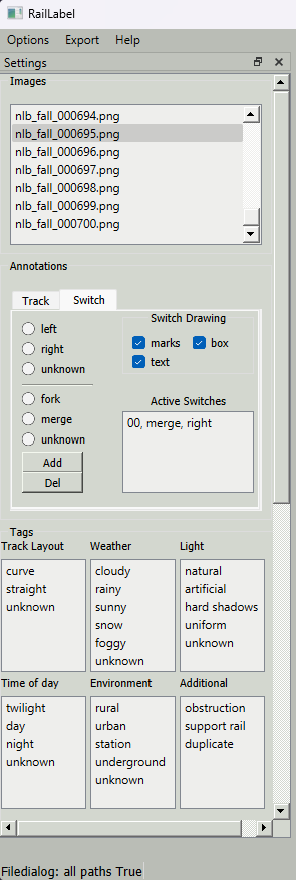
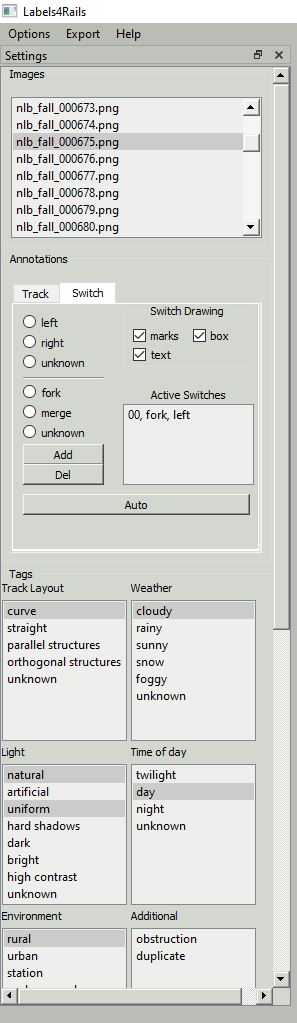
mention auto features in readme

diff --git a/README.md b/README.md
@@ -7,12 +7,10 @@
 # Installation
 
 ## Use case 1 - You want to use Labels4Rails with GUI to mark scenes:
-You are a student or a member of the team, and you want to help to
-extend our dataset by tagging images with the help of a GUI.
+You want to visualize the annotations, create new annotations or generate segmentations masks of track annotations and YOLO Scheme labels of the switches.
 
-1. Clone this GIT-repository
-   - `git clone git@gitlab.rz.htw-berlin.de:se_perception/raillabel.git`
-   - OR `git clone https://gitlab.rz.htw-berlin.de/se_perception/raillabel.git`
+1. Clone this GIT-repository:
+   - `git clone https://github.com/railway-perception-htw-berlin/Labels4Rails.git`
 2. If you are using windows you can find an executable in `raillabel_exe`. Otherwise you need to execute the following steps (which of course also work on windows).
 3. Python interpreter:  
     If you are experienced you can also install your packages via pip.
@@ -41,8 +39,7 @@ that you can generate your labels from the dataset.
     - Install Miniconda (sufficient and small) or Anaconda:
       [Instructions](https://docs.conda.io/projects/conda/en/latest/user-guide/install/)
 2. Clone this GIT-repository:
-   - `git clone git@gitlab.rz.htw-berlin.de:se_perception/raillabel.git`
-   - OR: `git@gitlab.rz.htw-berlin.de:se_perception/raillabel.git`
+   - `git clone https://github.com/railway-perception-htw-berlin/Labels4Rails.git`
 3. Create Conda environment and install raillabel package:
    - `conda create --name railpackage python=3.9`
    - `conda activate railpackage`
@@ -107,7 +104,7 @@ chunk-root
     └── scene_.....n.png
 ```
 - [mandatory] `chunk-root` is the root directory to point Labels4Rails to 
-- [mandatory] `camera/camera.yaml` contains the camera extrinsic
+- [mandatory] `camera/camera.yaml` contains the camera extrinsic. If there are no camera extrinsics for a dataset, the [camera file](https://github.com/railway-perception-htw-berlin/L4R_NLB/tree/main/L4R_NLB_winter/camera) from the L4R_NLB dataset can be used instead.
 - [mandatory] `images` contains the images to mark on
 - [generated] `annotations` contains information generated by Labels4Rails
 
@@ -144,9 +141,10 @@ Track tab                                    |  Switch Tab
 	  - to delete a mark aim (mouse pointer will turn red) on the respective mark and press `R`
    - to change the position of an existent track, select the track, select the new direction and press `E`
    - to delete a whole track select the track in the list and click the button `Del`
+   - ego track annotations can be generated automatically by clicking the `Auto` button. Existing ego track annotations will be overwritten by the newly created annotations.
    - Example on how to mark tracks: [Video](https://mediathek.htw-berlin.de/video/anleitung-labeltool/027a66a0b3dd2e3311eb840b65a88a35)
    - Example on how to delete or edit tracks: [Video](https://mediathek.htw-berlin.de/video/anleitung-labeltool/7148a8086abe71d0ba8094f2f7b58bf1)
-	 
+   	 
 ## Using the Dual-Stencil Mode to Label Tracks
    - press `W` to switch between default mode and dual-stencil mode. In dual stencil mode the left and right track can be marked simultaniuosly and there are two blue points where marks will be created.
    - by default the position of the mouse is on the left blue point. To switch the position to the right blus point press `S`
@@ -168,18 +166,20 @@ Track tab                                    |  Switch Tab
 	  - to change type or direction select the new properties and press `E`
 	  - the marks of the bounding box cannot be moved but deleted with `R` while aiming at them and set at a new position with `F`
    - to delete a whole switch select the switch in the list and click the button `Del`
+   - if all tracks in the scene are already annotated, switches can be generated automatically by clicking the `Auto` button. The automatically generated switch annotations are only based on the track labels. If the switch direction cannot actually be derived from the image, the direction should be changed manually as described above.
    - Example on how to label switches: [Video](https://mediathek.htw-berlin.de/video/anleitung-labeltool/1f1264289389a826223ab9b1d3c55444)
    - Example on how to edit or delete switches: [Video](https://mediathek.htw-berlin.de/video/anleitung-labeltool/0a454eee06ad982ee61aa232bac58b39)
    
 ## Label Tags
-  - tags can be labeled independent of the selected mode
-  - click on all `tags` which describe conditions on the scene
-  - tags can be deselected by clickng on them again
-  - Tags can be copied from the previous image by pressing `T`:
-     - if the image is the first of the chunk, `T` will be ignored
-	 - tag groups that already contain a tag will not be overwritten
-	 - to copy the tags and overwrite non empty tag groups,  press `O`
-  - Example of labeling tags: [Video](https://mediathek.htw-berlin.de/video/anleitung-labeltool/fce3f98f52fafd8115b3f4fd1587e9ed)
+   - tags can be labeled independent of the selected mode
+   - click on all `tags` which describe conditions on the scene
+   - tags can be deselected by clickng on them again
+   - Tags can be copied from the previous image by pressing `T`:
+      - if the image is the first of the chunk, `T` will be ignored
+	  - tag groups that already contain a tag will not be overwritten
+	  - to copy the tags and overwrite non empty tag groups,  press `O`
+   - An experimental feature for automatic tag generation is available in the 'autotag' branch. The tags `curve` and `straight` are set based on the geometry of track annotations. In the tag groups `environment`, `light`, `Weather`, and `Time of Day` the most likely tag is selected using an LLM.
+   - Example of labeling tags: [Video](https://mediathek.htw-berlin.de/video/anleitung-labeltool/fce3f98f52fafd8115b3f4fd1587e9ed)
 # Labeling Policy
 This section will briefly explain how railway scene images shall be labelled.
 
